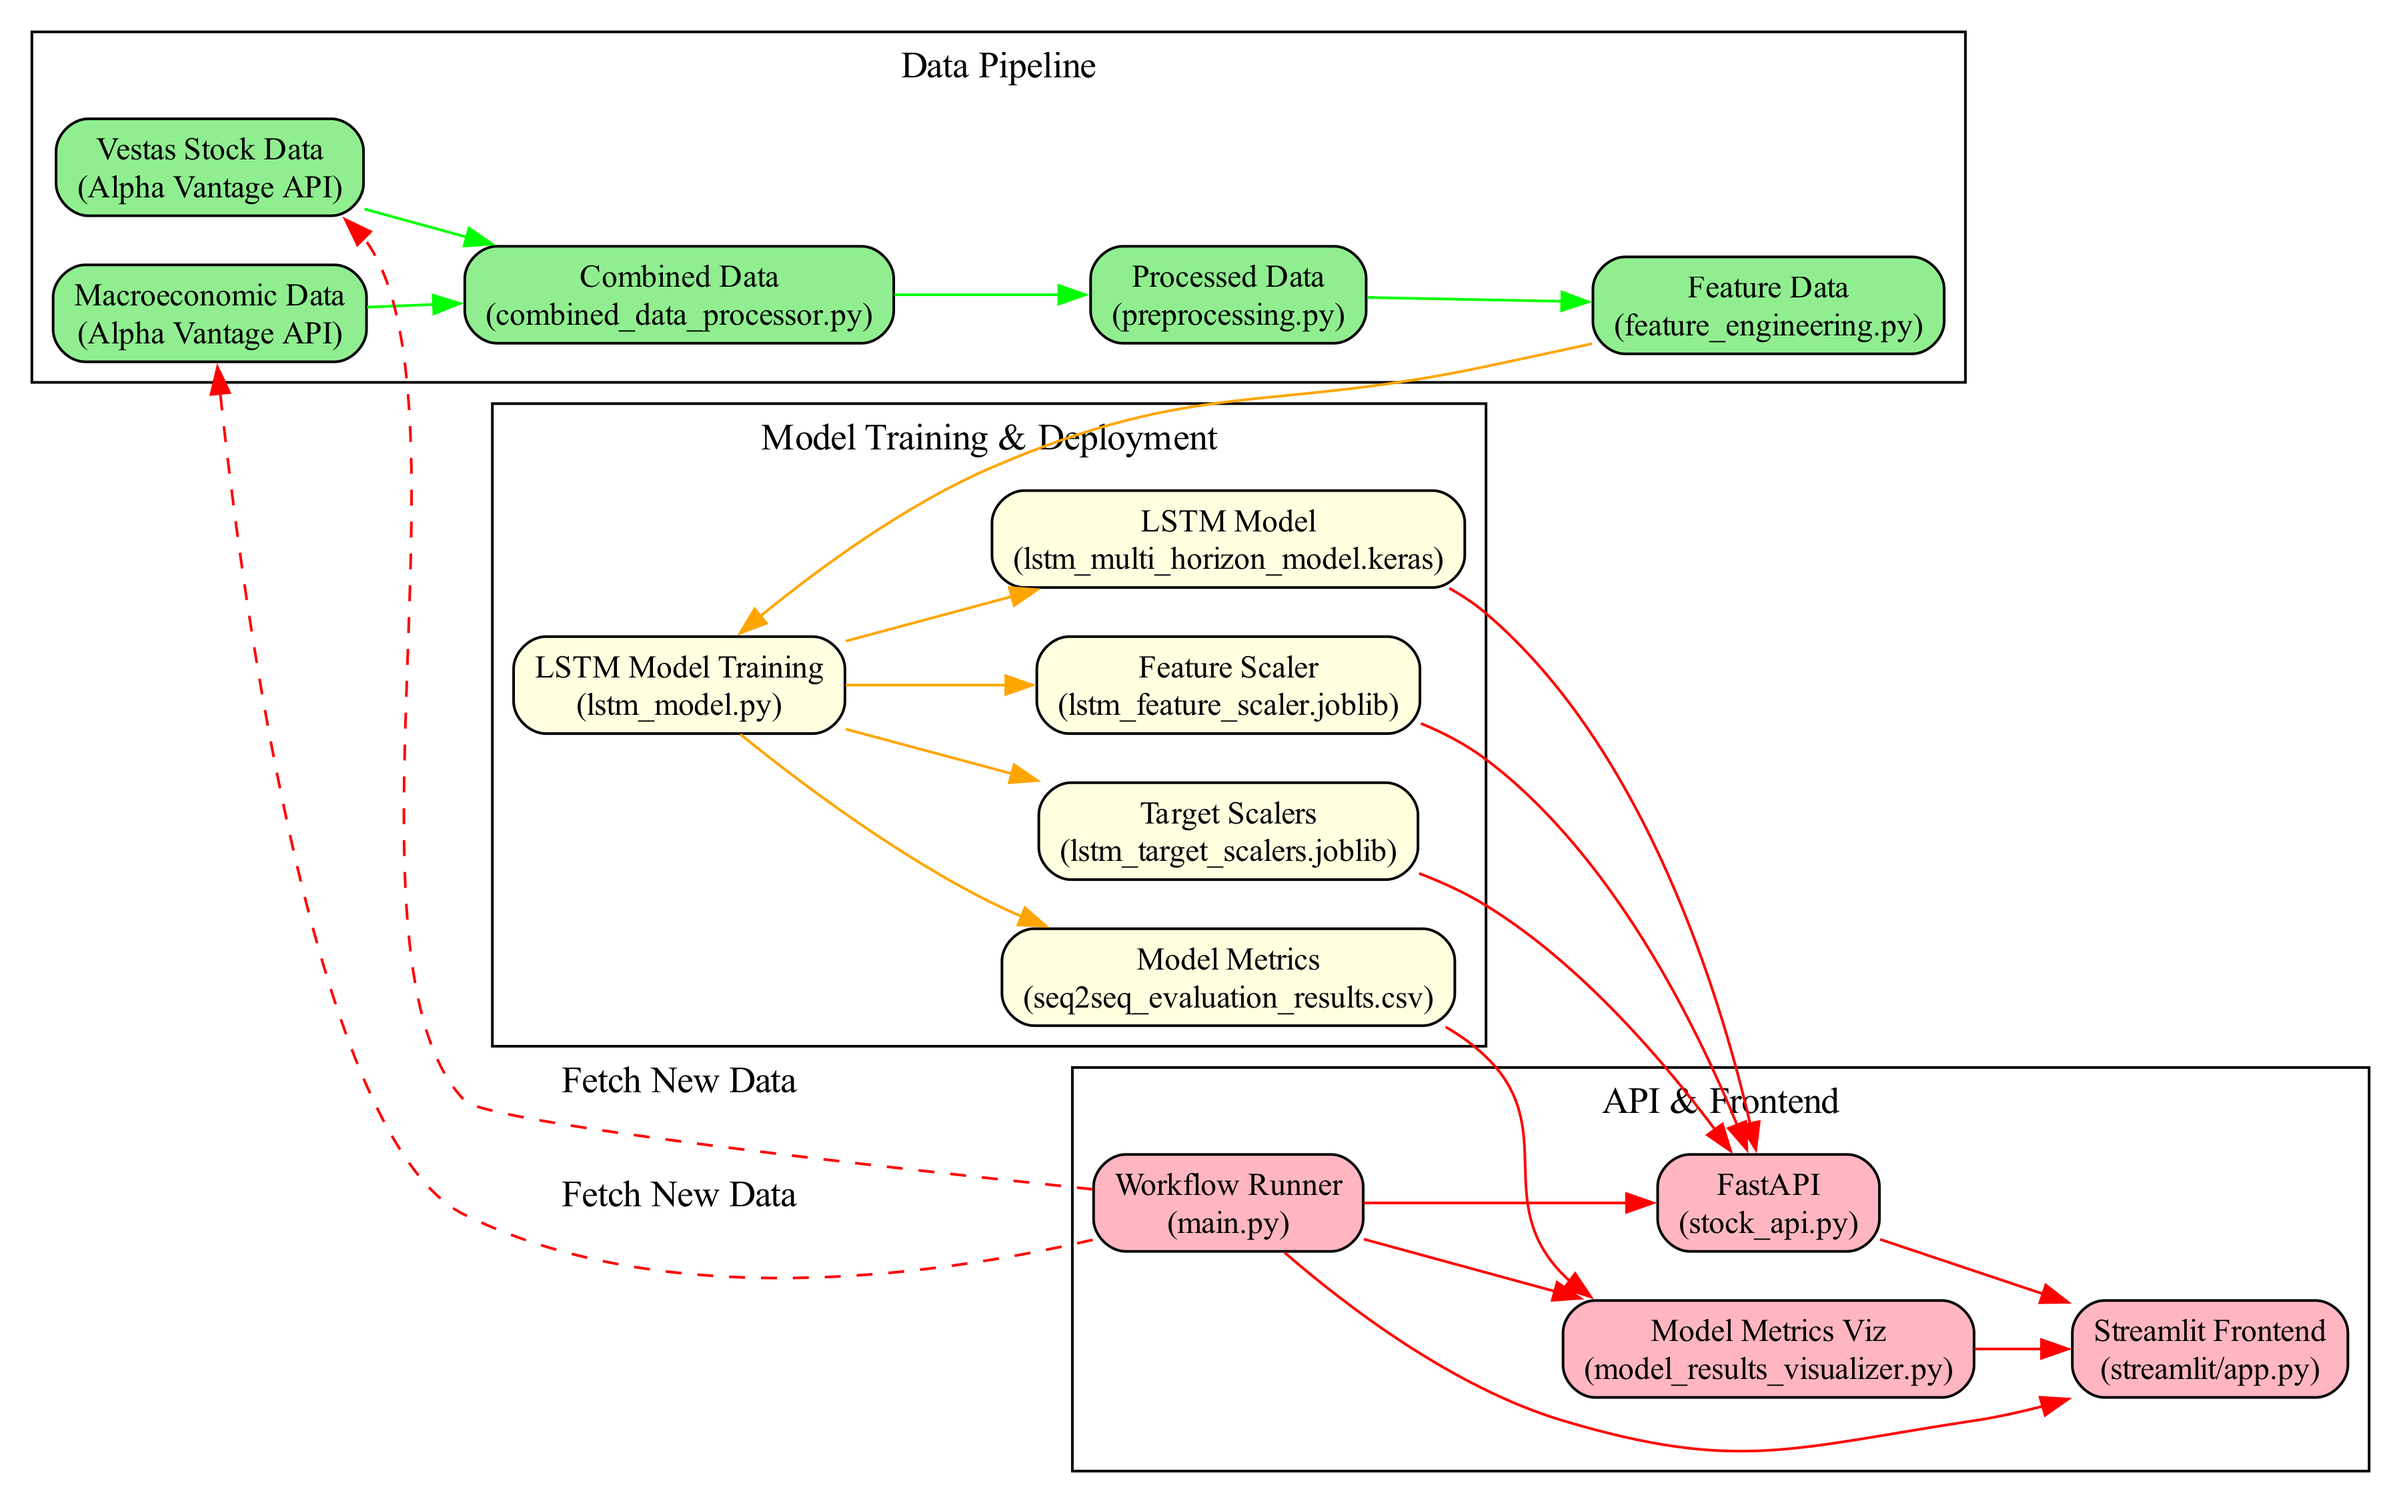
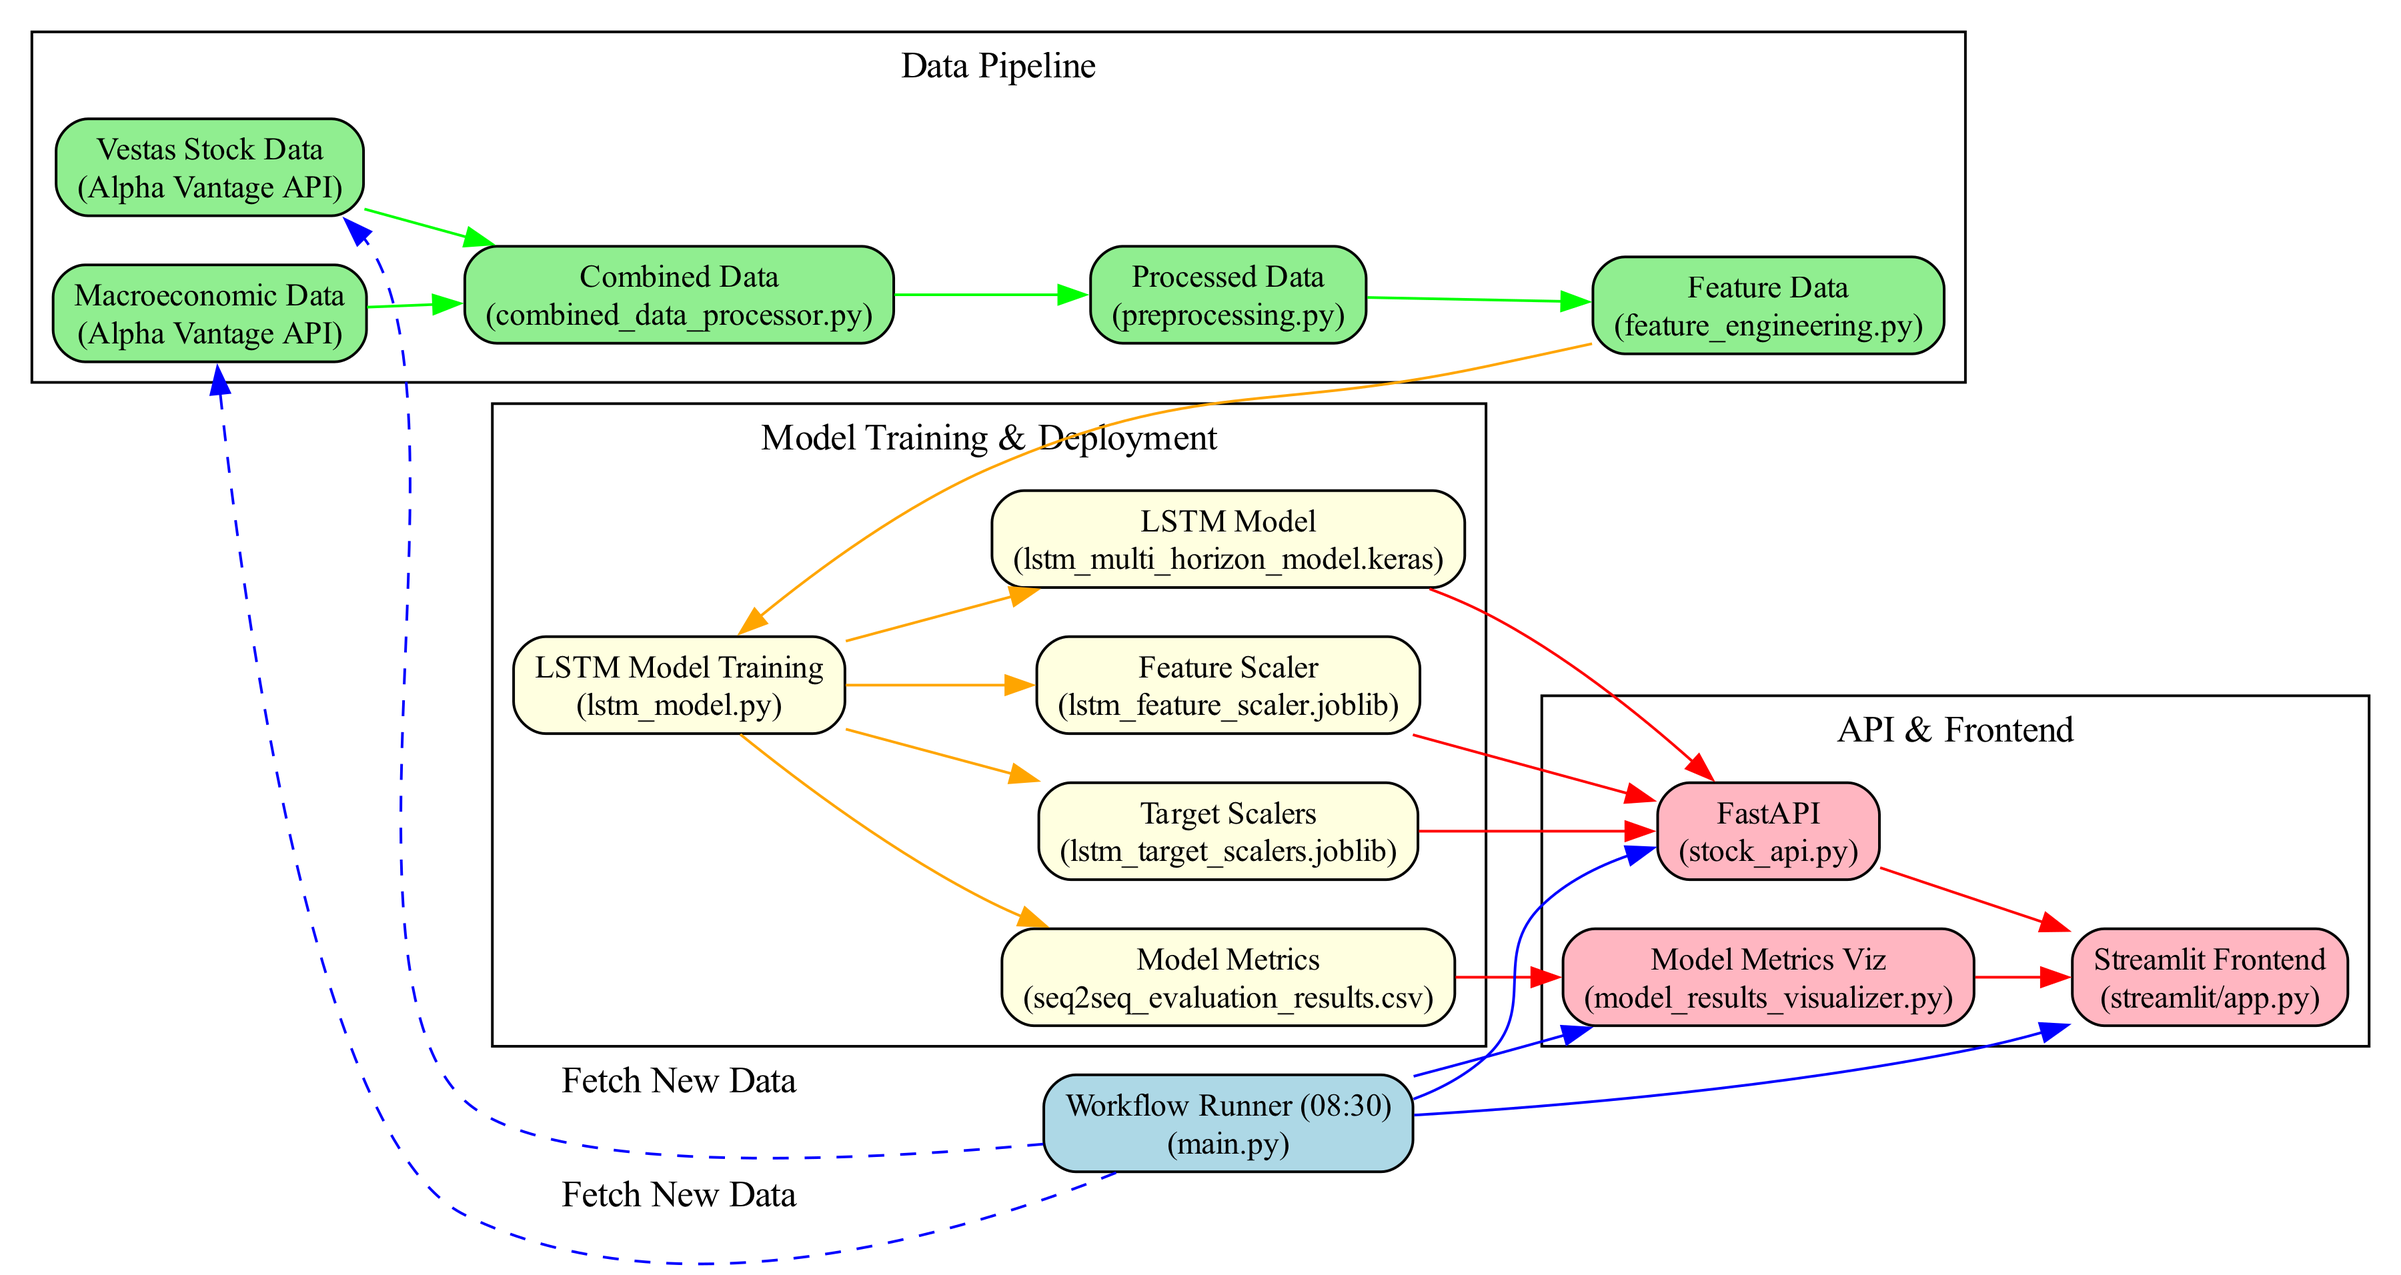
push

diff --git a/src/pipeline/pipelineviz/pipeline_viz.py b/src/pipeline/pipelineviz/pipeline_viz.py
@@ -47,15 +47,11 @@ def create_pipeline_visualization():
     # API & Frontend Nodes (right)
     with dot.subgraph(name='cluster_2') as c:
         c.attr(label='API & Frontend')
-        c.node('workflow_runner', 'Workflow Runner\n(main.py)', fillcolor='lightpink')
         c.node('api', 'FastAPI\n(stock_api.py)', fillcolor='lightpink')
         c.node('streamlit', 'Streamlit Frontend\n(streamlit/app.py)', fillcolor='lightpink')
         c.node('metrics_viz', 'Model Metrics Viz\n(model_results_visualizer.py)', fillcolor='lightpink')
         
         # API flow edges
-        c.edge('workflow_runner', 'api', color='red')
-        c.edge('workflow_runner', 'metrics_viz', color='red')
-        c.edge('workflow_runner', 'streamlit', color='red')
         c.edge('lstm_model', 'api', color='red')
         c.edge('feature_scaler', 'api', color='red')
         c.edge('target_scalers', 'api', color='red')
@@ -63,9 +59,15 @@ def create_pipeline_visualization():
         c.edge('model_metrics', 'metrics_viz', color='red')
         c.edge('metrics_viz', 'streamlit', color='red')
     
-    # Workflow Runner flow (back to data collection)
-    dot.edge('workflow_runner', 'vestas_data', style='dashed', color='red', label='Fetch New Data')
-    dot.edge('workflow_runner', 'macro_data', style='dashed', color='red', label='Fetch New Data')
+    # Workflow Runner Node (standalone)
+    dot.node('workflow_runner', 'Workflow Runner (08:30)\n(main.py)', fillcolor='lightblue')
+    
+    # Workflow Runner connections
+    dot.edge('workflow_runner', 'api', color='blue')
+    dot.edge('workflow_runner', 'metrics_viz', color='blue')
+    dot.edge('workflow_runner', 'streamlit', color='blue')
+    dot.edge('workflow_runner', 'vestas_data', style='dashed', color='blue', label='Fetch New Data')
+    dot.edge('workflow_runner', 'macro_data', style='dashed', color='blue', label='Fetch New Data')
     
     # Force order with invisible edges
     dot.edge('vestas_data', 'model_training', style='invis', weight='100')
